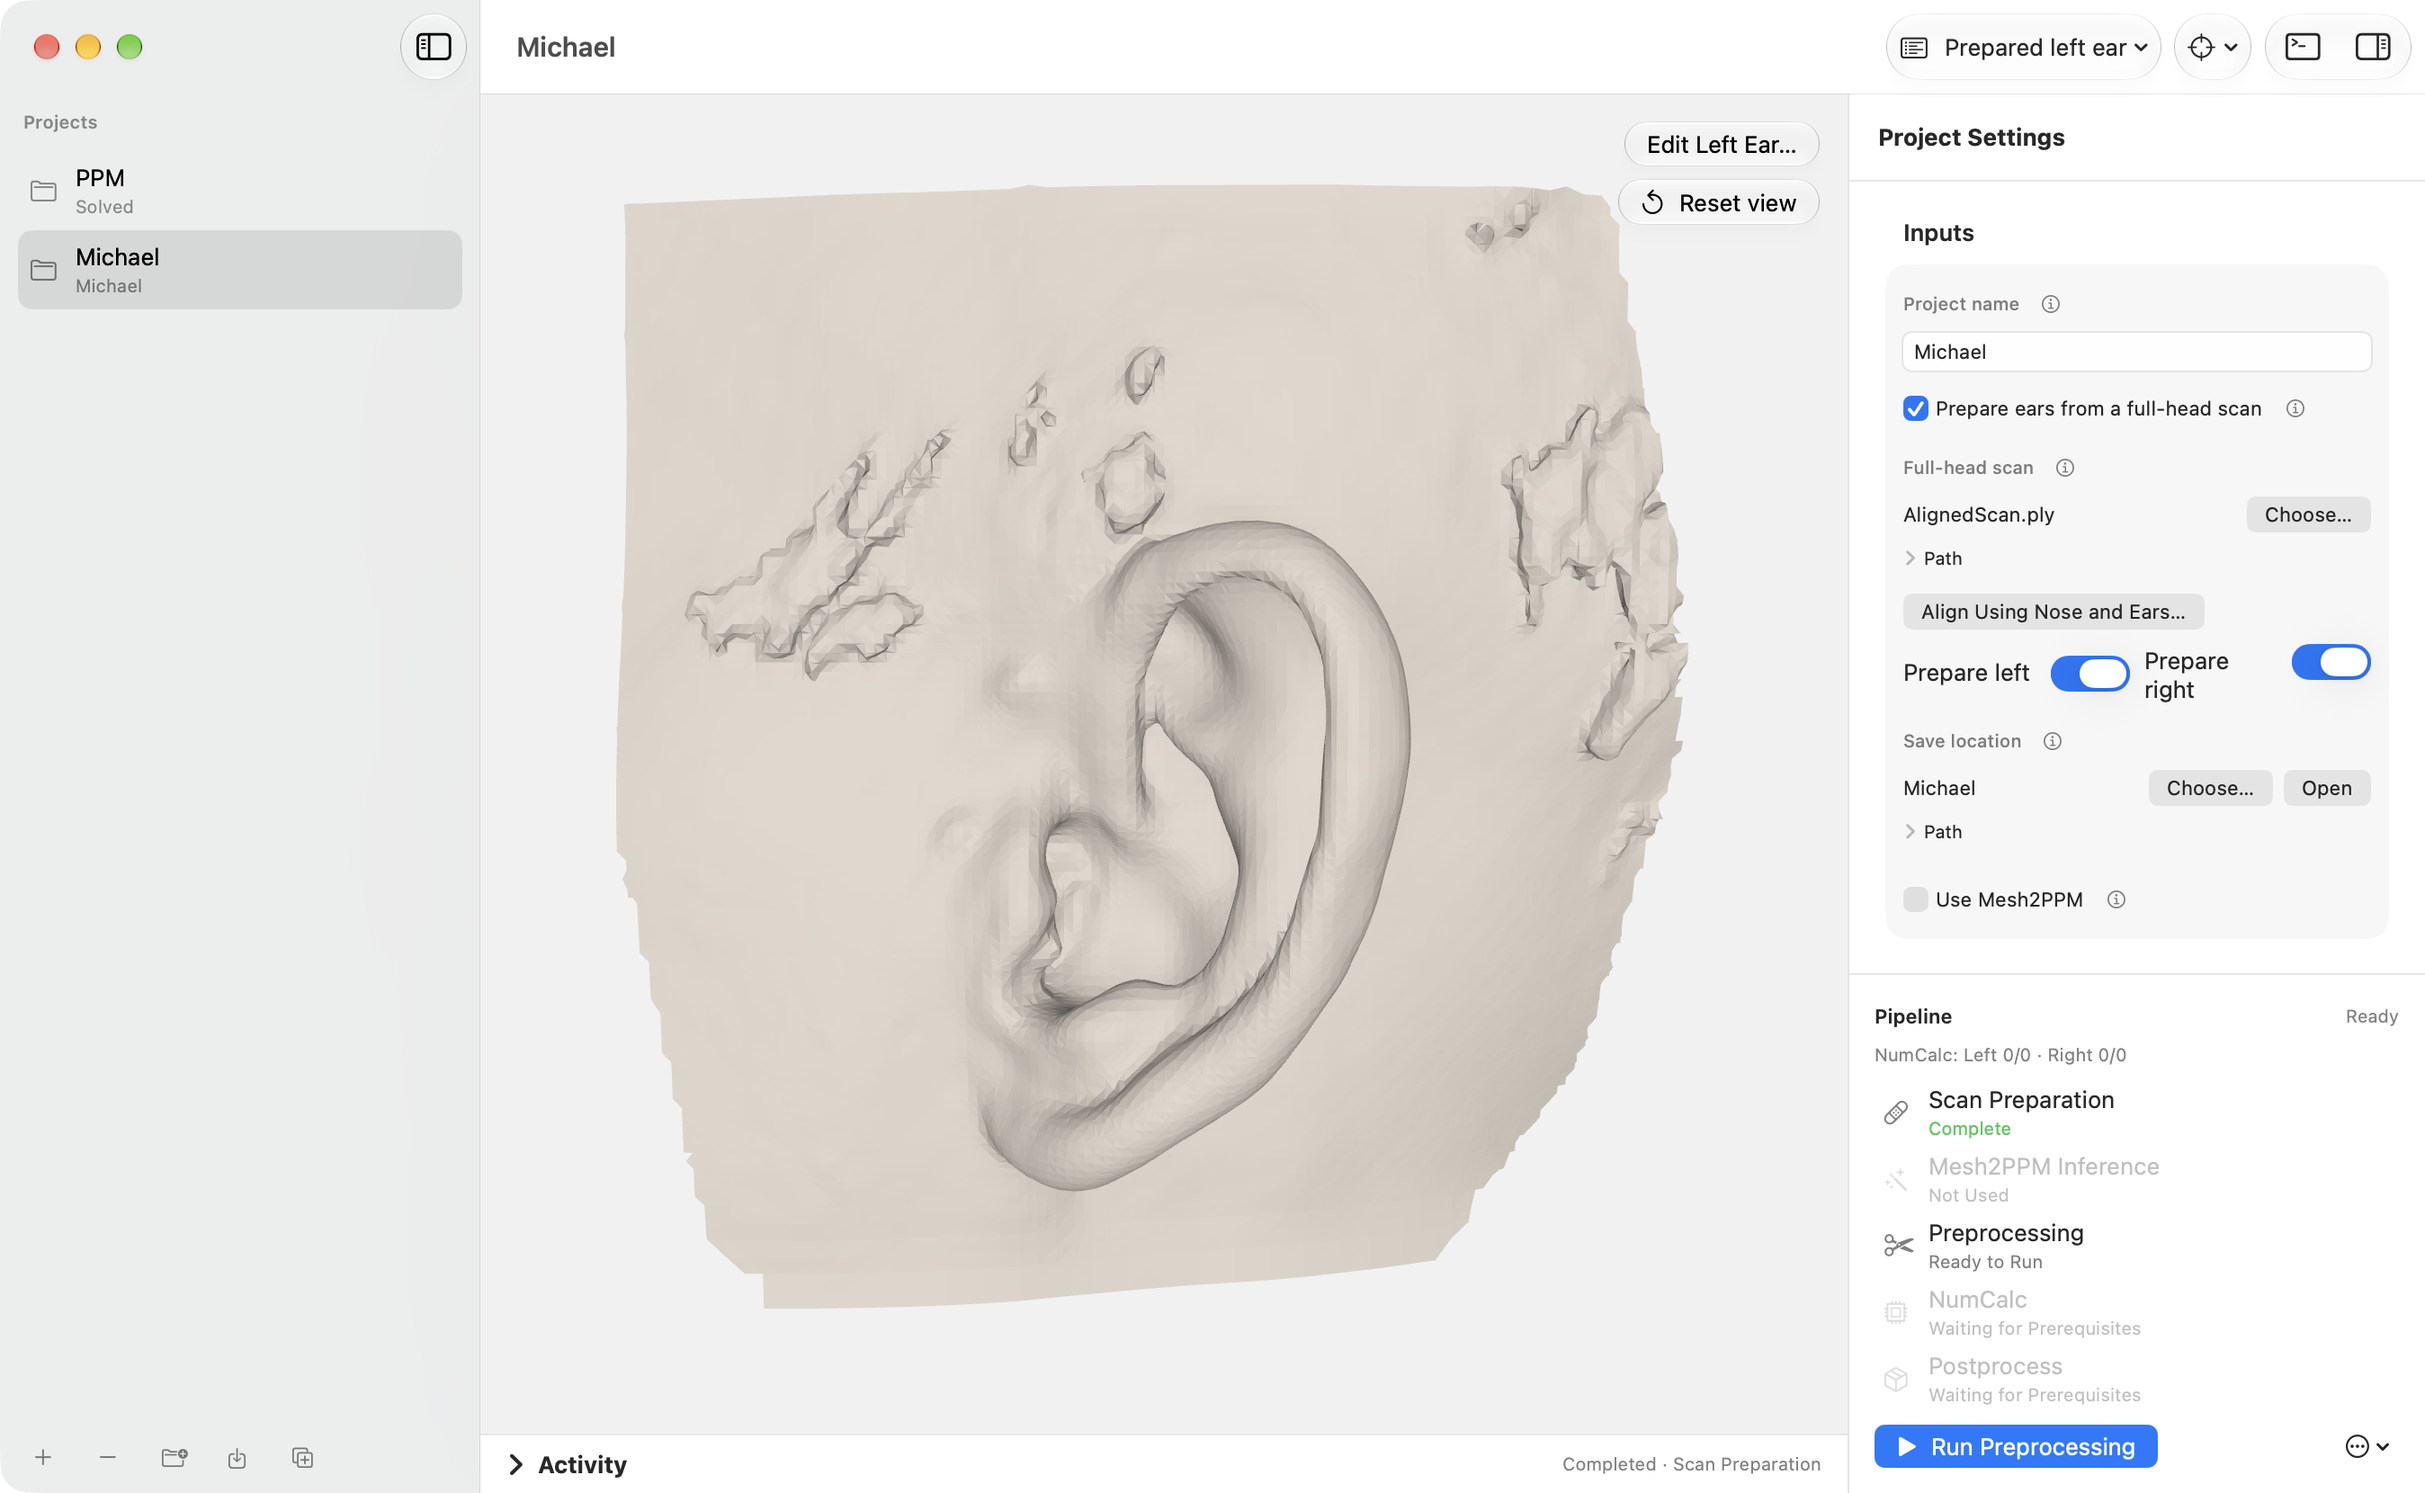
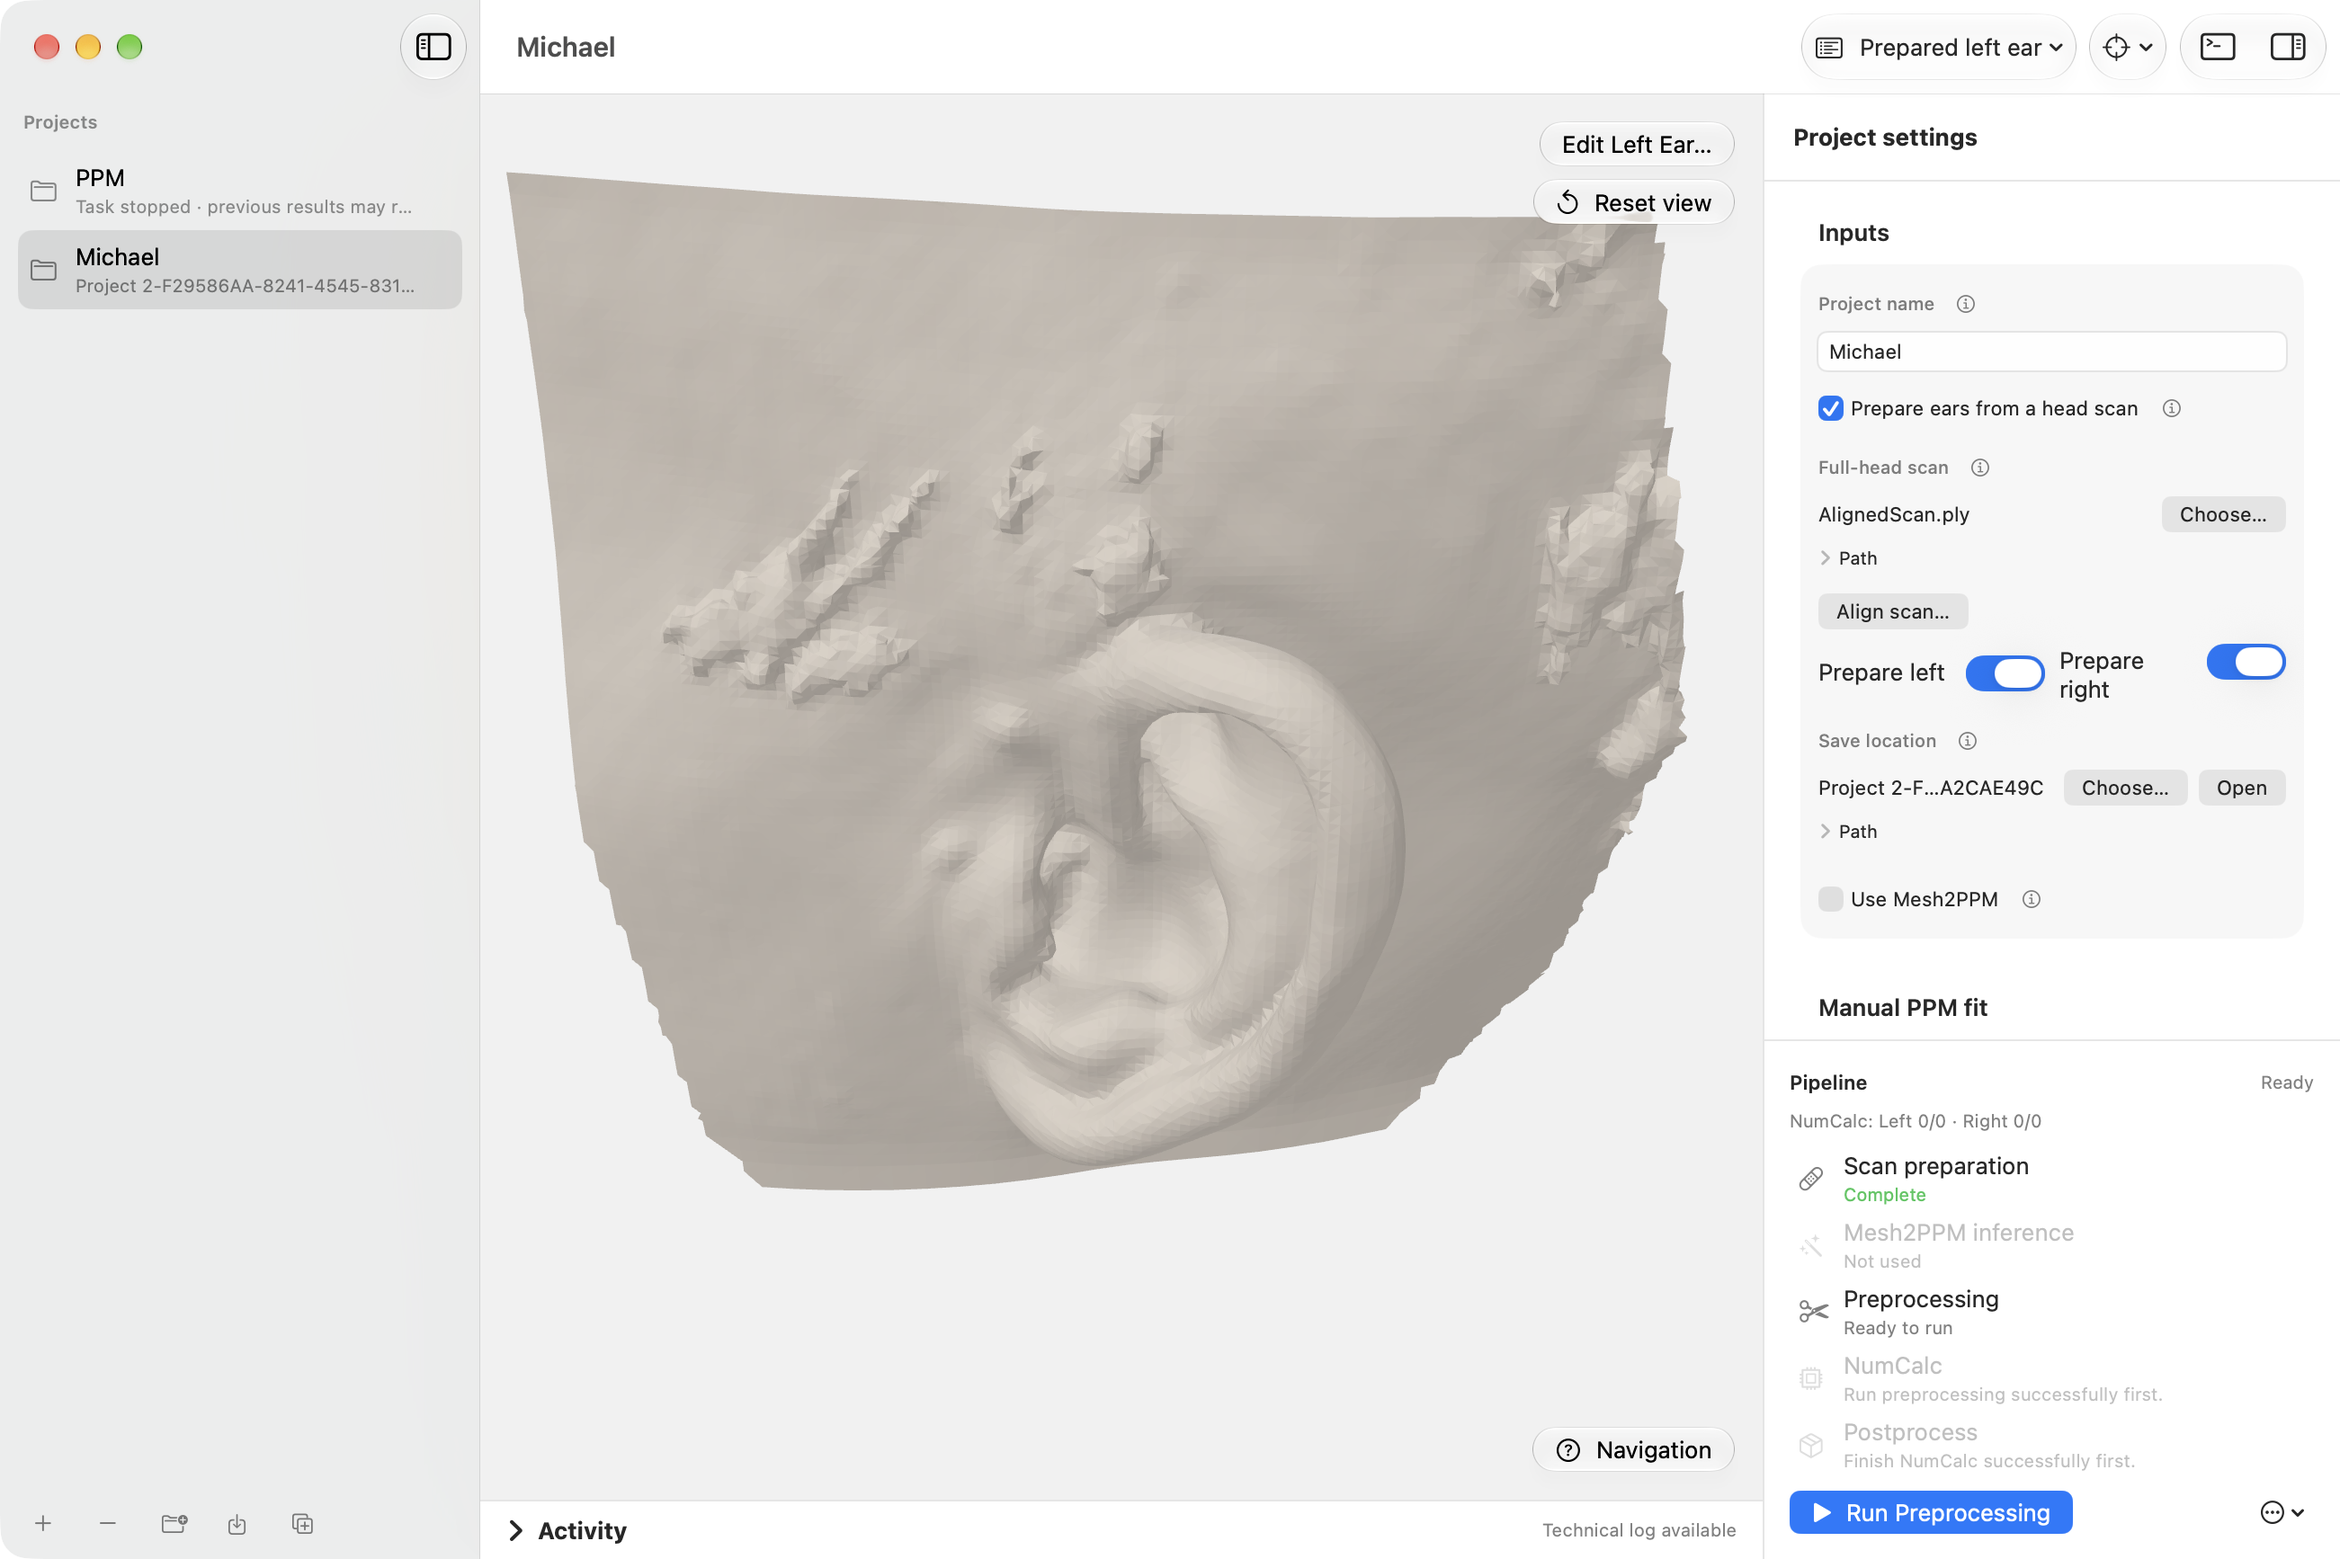
Refresh prepared ear screenshot

diff --git a/website/docs/scan-preparation.html b/website/docs/scan-preparation.html
@@ -21,7 +21,7 @@
       <details><summary>How preparation processes and validates the mesh</summary>      <p>Preparation crops the pinna region, cleans the mesh, performs 0.75 mm isotropic remeshing (six iterations, capped at 150,000 faces), reconstructs it with Screened Poisson (depth 7, one worker), restores the attachment boundary, and closes residual holes. A prepared ear is validated for one connected surface, consistent winding, finite coordinates, positive volume, and exactly one simple open attachment boundary.</p>
       <p>The prepared ears are exported in the crop frame: left toward +Y and right toward −Y. Original scans are preserved. The project retains the validated ear STL files and a provenance report in <code>Prepared/</code>; intermediate geometry is temporary.</p>
 </details>
-      <figure><a href="../assets/screenshots/prepared-ear.png" aria-label="Open full-size screenshot: Inspect the prepared left ear and its attachment region before opening Edit Left Ear."><img src="../assets/screenshots/prepared-ear.png" alt="Inspect the prepared left ear and its attachment region before opening Edit Left Ear." width="2696" height="1660" loading="lazy" decoding="async"></a><figcaption>Inspect the prepared left ear and its attachment region before opening Edit Left Ear. <a href="../assets/screenshots/prepared-ear.png">View full size ↗</a></figcaption></figure>
+      <figure><a href="../assets/screenshots/prepared-ear.png" aria-label="Open full-size screenshot: Inspect the prepared left ear and its attachment region before opening Edit Left Ear."><img src="../assets/screenshots/prepared-ear.png" alt="Inspect the prepared left ear and its attachment region before opening Edit Left Ear." width="2602" height="1734" loading="lazy" decoding="async"></a><figcaption>Inspect the prepared left ear and its attachment region before opening Edit Left Ear. <a href="../assets/screenshots/prepared-ear.png">View full size ↗</a></figcaption></figure>
 <h2 id="3-review-and-edit">3. Review and edit</h2><p>Open <strong>Edit Left Ear…</strong> or <strong>Edit Right Ear…</strong> from the prepared mesh preview. The editor offers two tools:</p>
       <h3>Select faces</h3><p>Draw a closed lasso or click individual faces. The selection turns red; inspect it from another angle before choosing <strong>Delete Selected Faces</strong>. By default only visible surfaces are selected. Enable <strong>Select through mesh</strong> to include hidden faces, or <strong>Add to current selection</strong> to build a selection in several passes. Use Invert Selection or Clear Selection to revise it.</p>
 <figure><a href="../assets/screenshots/ear-face-selection.png" aria-label="Open full-size screenshot: Select Faces: a lasso marks a patch in red for inspection before deletion."><img src="../assets/screenshots/ear-face-selection.png" alt="Select Faces: a lasso marks a patch in red for inspection before deletion." width="2696" height="1660" loading="lazy" decoding="async"></a><figcaption>Select Faces: a lasso marks a patch in red for inspection before deletion. <a href="../assets/screenshots/ear-face-selection.png">View full size ↗</a></figcaption></figure>
